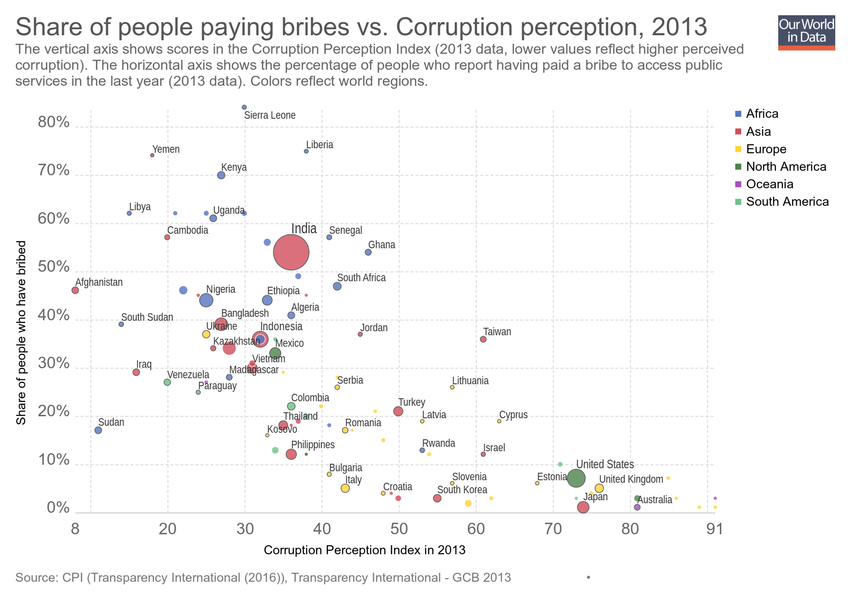
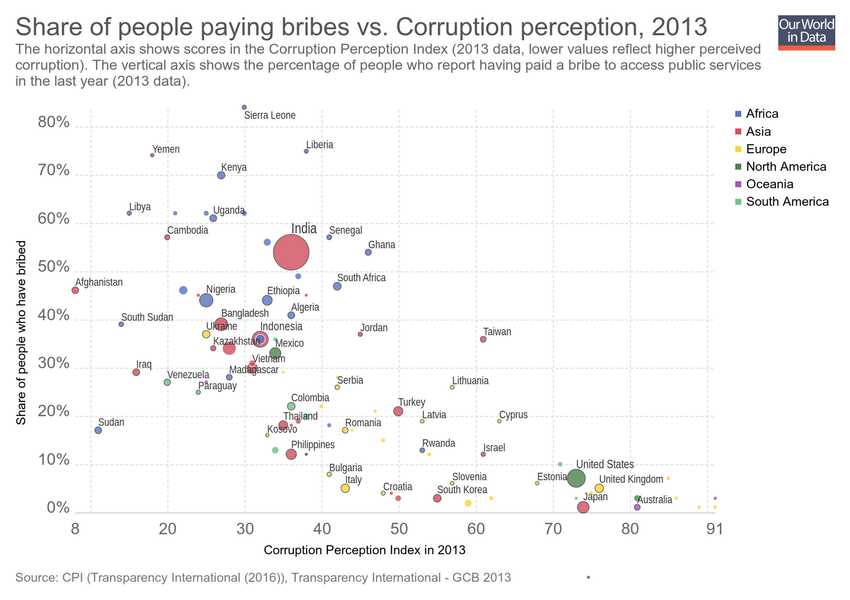
Updating chart share-of-people-paying-bribes-vs-corruption-perception

Changed region(s): [[0.0, 0.06, 0.9176, 0.15]]

diff --git a/grapher/share-of-people-paying-bribes-vs-corruption-perception.html b/grapher/share-of-people-paying-bribes-vs-corruption-perception.html
@@ -1,4 +1,4 @@
-<!doctype html><html><head><meta name="viewport" content="width=device-width, initial-scale=1" /><title>Share of people paying bribes vs. Corruption perception - Our World in Data</title><meta name="description" content="The vertical axis shows scores in the Corruption Perception Index (2013 data, lower values reflect higher perceived corruption). The horizontal axis shows the percentage of people who report having paid a bribe to access public services in the last year (2013 data). Colors reflect world regions." /><link rel="canonical" href="https://ourworldindata.org/grapher/share-of-people-paying-bribes-vs-corruption-perception" /><meta property="fb:app_id" content="1149943818390250" /><meta property="og:url" content="https://ourworldindata.org/grapher/share-of-people-paying-bribes-vs-corruption-perception" /><meta property="og:title" content="Share of people paying bribes vs. Corruption perception" /><meta property="og:description" content="The vertical axis shows scores in the Corruption Perception Index (2013 data, lower values reflect higher perceived corruption). The horizontal axis shows the percentage of people who report having paid a bribe to access public services in the last year (2013 data). Colors reflect world regions." /><meta property="og:image" content="https://ourworldindata.org/grapher/exports/share-of-people-paying-bribes-vs-corruption-perception.png?v=1" /><meta property="og:image:width" content="850" /><meta property="og:image:height" content="600" /><meta property="og:site_name" content="Our World in Data" /><meta name="twitter:card" content="summary_large_image" /><meta name="twitter:site" content="@OurWorldInData" /><meta name="twitter:creator" content="@OurWorldInData" /><meta name="twitter:title" content="Share of people paying bribes vs. Corruption perception" /><meta name="twitter:description" content="The vertical axis shows scores in the Corruption Perception Index (2013 data, lower values reflect higher perceived corruption). The horizontal axis shows the percentage of people who report having paid a bribe to access public services in the last year (2013 data). Colors reflect world regions." /><meta name="twitter:image" content="https://ourworldindata.org/grapher/exports/share-of-people-paying-bribes-vs-corruption-perception.png?v=1" /><style>
+<!doctype html><html><head><meta name="viewport" content="width=device-width, initial-scale=1" /><title>Share of people paying bribes vs. Corruption perception - Our World in Data</title><meta name="description" content="The horizontal axis shows scores in the Corruption Perception Index (2013 data, lower values reflect higher perceived corruption). The vertical axis shows the percentage of people who report having paid a bribe to access public services in the last year (2013 data)." /><link rel="canonical" href="https://ourworldindata.org/grapher/share-of-people-paying-bribes-vs-corruption-perception" /><meta property="fb:app_id" content="1149943818390250" /><meta property="og:url" content="https://ourworldindata.org/grapher/share-of-people-paying-bribes-vs-corruption-perception" /><meta property="og:title" content="Share of people paying bribes vs. Corruption perception" /><meta property="og:description" content="The horizontal axis shows scores in the Corruption Perception Index (2013 data, lower values reflect higher perceived corruption). The vertical axis shows the percentage of people who report having paid a bribe to access public services in the last year (2013 data)." /><meta property="og:image" content="https://ourworldindata.org/grapher/exports/share-of-people-paying-bribes-vs-corruption-perception.png?v=4" /><meta property="og:image:width" content="850" /><meta property="og:image:height" content="600" /><meta property="og:site_name" content="Our World in Data" /><meta name="twitter:card" content="summary_large_image" /><meta name="twitter:site" content="@OurWorldInData" /><meta name="twitter:creator" content="@OurWorldInData" /><meta name="twitter:title" content="Share of people paying bribes vs. Corruption perception" /><meta name="twitter:description" content="The horizontal axis shows scores in the Corruption Perception Index (2013 data, lower values reflect higher perceived corruption). The vertical axis shows the percentage of people who report having paid a bribe to access public services in the last year (2013 data)." /><meta name="twitter:image" content="https://ourworldindata.org/grapher/exports/share-of-people-paying-bribes-vs-corruption-perception.png?v=4" /><style>
         html, body {
             height: 100%;
             margin: 0;
@@ -20,8 +20,8 @@
         }
     </style><noscript><style>
                     figure { display: none !important; }
-                </style></noscript><link rel="stylesheet" href="https://ourworldindata.org/grapher/assets/commons.bundle.dcbbe53805c487d5e57617b10ac73a8a.css" /><link rel="preload" href="/grapher/data/variables/1405+1420+123+72.json?v=1" as="fetch" crossorigin /></head><body class="singleChart"><figure data-grapher-src="/grapher/share-of-people-paying-bribes-vs-corruption-perception"></figure><noscript id="fallback"><img src="/grapher/exports/share-of-people-paying-bribes-vs-corruption-perception.svg" /><p>Interactive visualization requires JavaScript</p></noscript><script src="https://cdn.polyfill.io/v2/polyfill.min.js?features=es6,fetch"></script><script src="https://ourworldindata.org/grapher/assets/commons.bundle.4bbda1a4aa3b9e1fddc7.js"></script><script src="https://ourworldindata.org/grapher/assets/charts.bundle.4bbda1a4aa3b9e1fddc7.js"></script><script>
-        var jsonConfig = {"id":356,"map":{"projection":"World","targetYear":2012,"variableId":1405,"timeTolerance":1,"baseColorScheme":"BuGn","colorSchemeInvert":false,"colorSchemeLabels":[],"colorSchemeValues":[],"defaultProjection":"World","legendDescription":"","customColorsActive":false,"colorSchemeMinValue":0,"customNumericColors":[],"customCategoryColors":[],"customCategoryLabels":[],"customHiddenCategories":[]},"tab":"chart","note":"","slug":"share-of-people-paying-bribes-vs-corruption-perception","type":"ScatterPlot","title":"Share of people paying bribes vs. Corruption perception","xAxis":{"scaleType":"linear"},"yAxis":{"min":0,"suffix":"%","scaleType":"linear","labelDistance":0},"version":1,"subtitle":"The vertical axis shows scores in the Corruption Perception Index (2013 data, lower values reflect higher perceived corruption). The horizontal axis shows the percentage of people who report having paid a bribe to access public services in the last year (2013 data). Colors reflect world regions.","hasMapTab":false,"originUrl":"https://ourworldindata.org/corruption/","stackMode":null,"dimensions":[{"display":{"name":"Corruption Perception Index","tolerance":0,"isProjection":false},"property":"x","targetYear":2013,"variableId":1405},{"display":{"name":"Share of people who have bribed","unit":"%","tolerance":5,"isProjection":false},"property":"y","variableId":1420},{"display":{},"property":"color","variableId":123},{"display":{},"property":"size","variableId":72}],"entityType":"country","hideLegend":true,"hasChartTab":true,"isPublished":true,"hideTimeline":true,"selectedData":[],"internalNotes":"","addCountryMode":"add-country","hideRelativeToggle":false};
+                </style></noscript><link rel="stylesheet" href="https://ourworldindata.org/grapher/assets/commons.bundle.dcbbe53805c487d5e57617b10ac73a8a.css" /><link rel="preload" href="/grapher/data/variables/1405+1420+123+72.json?v=4" as="fetch" crossorigin /></head><body class="singleChart"><figure data-grapher-src="/grapher/share-of-people-paying-bribes-vs-corruption-perception"></figure><noscript id="fallback"><img src="/grapher/exports/share-of-people-paying-bribes-vs-corruption-perception.svg" /><p>Interactive visualization requires JavaScript</p></noscript><script src="https://cdn.polyfill.io/v2/polyfill.min.js?features=es6,fetch"></script><script src="https://ourworldindata.org/grapher/assets/commons.bundle.4bbda1a4aa3b9e1fddc7.js"></script><script src="https://ourworldindata.org/grapher/assets/charts.bundle.4bbda1a4aa3b9e1fddc7.js"></script><script>
+        var jsonConfig = {"id":356,"map":{"projection":"World","targetYear":2012,"variableId":1405,"timeTolerance":1,"baseColorScheme":"BuGn","colorSchemeInvert":false,"colorSchemeLabels":[],"colorSchemeValues":[],"legendDescription":"","customColorsActive":false,"colorSchemeMinValue":0,"customNumericColors":[],"customCategoryColors":[],"customCategoryLabels":[],"customHiddenCategories":[]},"tab":"chart","note":"","slug":"share-of-people-paying-bribes-vs-corruption-perception","type":"ScatterPlot","title":"Share of people paying bribes vs. Corruption perception","xAxis":{"scaleType":"linear"},"yAxis":{"min":0,"suffix":"%","scaleType":"linear","labelDistance":0},"version":4,"subtitle":"The horizontal axis shows scores in the Corruption Perception Index (2013 data, lower values reflect higher perceived corruption). The vertical axis shows the percentage of people who report having paid a bribe to access public services in the last year (2013 data).","hasMapTab":false,"originUrl":"https://ourworldindata.org/corruption/","stackMode":null,"dimensions":[{"display":{"name":"Corruption Perception Index","tolerance":0,"isProjection":false},"property":"x","targetYear":2013,"variableId":1405},{"display":{"name":"Share of people who have bribed","unit":"%","tolerance":5,"isProjection":false},"property":"y","variableId":1420},{"display":{},"property":"color","variableId":123},{"display":{},"property":"size","variableId":72}],"entityType":"country","hideLegend":true,"hasChartTab":true,"isPublished":true,"hideTimeline":true,"selectedData":[],"internalNotes":"","addCountryMode":"add-country","hideRelativeToggle":false};
         var figure = document.getElementsByTagName("figure")[0];
         try {
             window.App = {};
